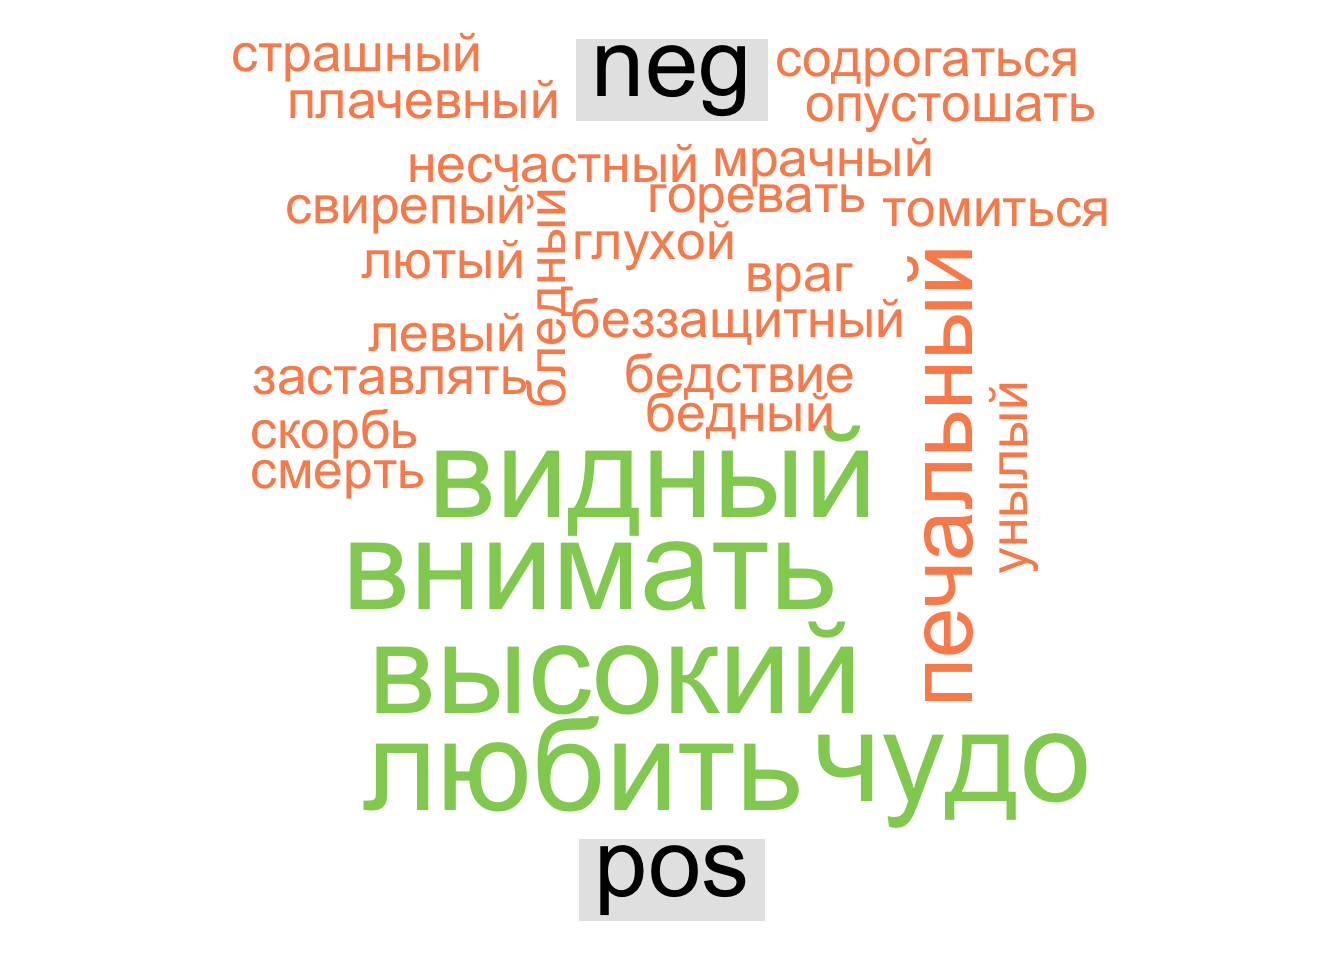
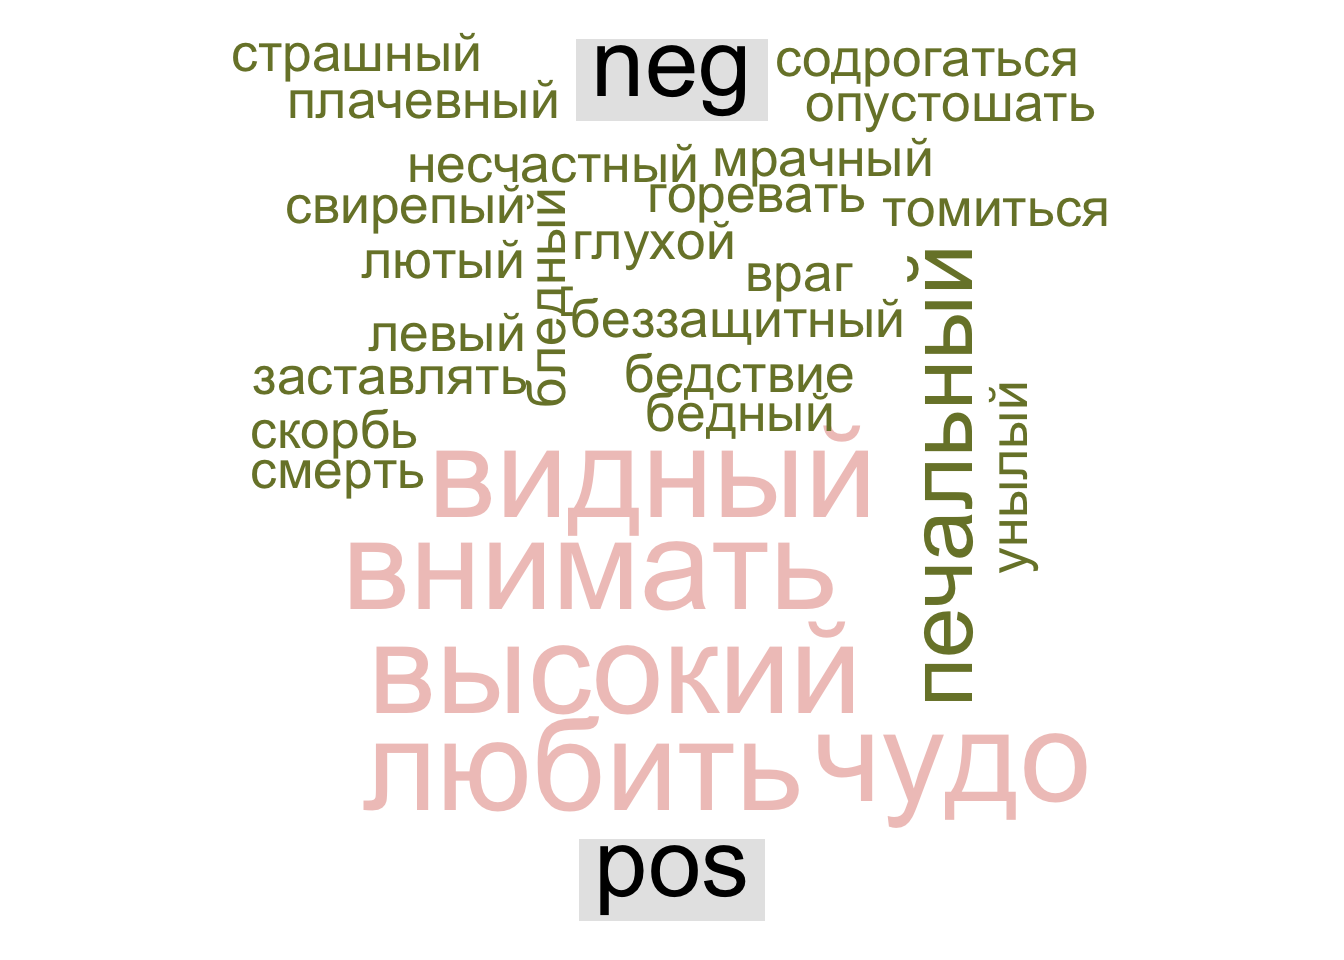
sentiment upd

Changed region(s): [[0.1875, 0.1562, 0.8438, 0.875], [0.5625, 0.0312, 0.8125, 0.125], [0.1562, 0.0312, 0.4375, 0.125]]

diff --git a/docs/sentiment.html b/docs/sentiment.html
@@ -392,7 +392,7 @@ div.csl-indent {
 </div>
 </div>
 </div>
-<p>NRC для русского языка – это переведенная версия списка положительных и отрицательных слов <a href="https://aclanthology.org/W10-0204/">Mohammad &amp; Turney (2010)</a>. Таблица содержит 5179 слов с не нейтральными оценками. Бинарная шкала: -1 / 1.</p>
+<p>NRC** для русского языка – это переведенная версия списка положительных и отрицательных слов <a href="https://aclanthology.org/W10-0204/">Mohammad &amp; Turney (2010)</a>. Таблица содержит 5179 слов с не нейтральными оценками. Бинарная шкала: -1 / 1.</p>
 <div class="cell">
 <div class="sourceCode cell-code" id="cb7"><pre class="sourceCode r code-with-copy"><code class="sourceCode r"><span id="cb7-1"><a href="#cb7-1" aria-hidden="true" tabindex="-1"></a><span class="fu">set.seed</span>(<span class="dv">1102</span>)</span>
 <span id="cb7-2"><a href="#cb7-2" aria-hidden="true" tabindex="-1"></a>nrc <span class="ot">&lt;-</span> hash_sentiment_nrc_emolex_ru</span>
@@ -494,22 +494,25 @@ div.csl-indent {
 </div>
 </div>
 </div>
-<p>Довольно неожиданно, что самый негативный отрывок находится не в конце повести, ближе к трагической развязке, а почти в начале (отрывок 5, ср. отрывки 3 и 4 рядом). Представим эмоционально окрашенную лексику отрывков 3-5 в виде сравнительного облака слов:</p>
+<p>Довольно неожиданно, что самый негативный отрывок находится не в конце повести, ближе к трагической развязке, а почти в начале (отрывок 5, ср. отрывки 3 и 4 рядом). Представим эмоционально окрашенную лексику отрывков 3-5 в виде сравнительного облака слов. Палитру берем <a href="https://emilhvitfeldt.github.io/r-color-palettes/discrete/rcartocolor/ArmyRose/">отсюда</a>.</p>
 <div class="cell">
 <div class="sourceCode cell-code" id="cb13"><pre class="sourceCode r code-with-copy"><code class="sourceCode r"><span id="cb13-1"><a href="#cb13-1" aria-hidden="true" tabindex="-1"></a><span class="fu">library</span>(reshape2)</span>
 <span id="cb13-2"><a href="#cb13-2" aria-hidden="true" tabindex="-1"></a><span class="fu">library</span>(wordcloud)</span>
 <span id="cb13-3"><a href="#cb13-3" aria-hidden="true" tabindex="-1"></a></span>
-<span id="cb13-4"><a href="#cb13-4" aria-hidden="true" tabindex="-1"></a><span class="co"># добавляем новый столбец для удобства визуализации</span></span>
-<span id="cb13-5"><a href="#cb13-5" aria-hidden="true" tabindex="-1"></a>liza_sent_class <span class="ot">&lt;-</span> liza_sent <span class="sc">|&gt;</span> </span>
-<span id="cb13-6"><a href="#cb13-6" aria-hidden="true" tabindex="-1"></a>  <span class="fu">mutate</span>(<span class="at">tone =</span> <span class="fu">case_when</span>( score <span class="sc">&gt;=</span> <span class="dv">0</span> <span class="sc">~</span> <span class="st">"pos"</span>,</span>
-<span id="cb13-7"><a href="#cb13-7" aria-hidden="true" tabindex="-1"></a>                           score <span class="sc">&lt;</span> <span class="dv">0</span> <span class="sc">~</span> <span class="st">"neg"</span>))</span>
-<span id="cb13-8"><a href="#cb13-8" aria-hidden="true" tabindex="-1"></a><span class="fu">set.seed</span>(<span class="dv">0211</span>)</span>
-<span id="cb13-9"><a href="#cb13-9" aria-hidden="true" tabindex="-1"></a>liza_sent_class <span class="sc">|&gt;</span> </span>
-<span id="cb13-10"><a href="#cb13-10" aria-hidden="true" tabindex="-1"></a>  <span class="fu">filter</span>(chunk  <span class="sc">%in%</span>  <span class="fu">c</span>(<span class="dv">3</span>, <span class="dv">4</span>, <span class="dv">5</span>)) <span class="sc">|&gt;</span> </span>
-<span id="cb13-11"><a href="#cb13-11" aria-hidden="true" tabindex="-1"></a>  <span class="fu">count</span>(token, tone, <span class="at">sort =</span> T) <span class="sc">|&gt;</span> </span>
-<span id="cb13-12"><a href="#cb13-12" aria-hidden="true" tabindex="-1"></a>  <span class="fu">acast</span>(token <span class="sc">~</span> tone, <span class="at">value.var =</span> <span class="st">"n"</span>, <span class="at">fill =</span> <span class="dv">0</span>) <span class="sc">|&gt;</span> </span>
-<span id="cb13-13"><a href="#cb13-13" aria-hidden="true" tabindex="-1"></a>  <span class="fu">comparison.cloud</span>(<span class="at">colors =</span> <span class="fu">c</span>(<span class="st">"#fc8d59"</span>, <span class="st">"#91cf60"</span>),</span>
-<span id="cb13-14"><a href="#cb13-14" aria-hidden="true" tabindex="-1"></a>                   <span class="at">max.words =</span> <span class="dv">99</span>)</span></code><button title="Скопировать текст" class="code-copy-button"><i class="bi"></i></button></pre></div>
+<span id="cb13-4"><a href="#cb13-4" aria-hidden="true" tabindex="-1"></a><span class="fu">library</span>(paletteer)</span>
+<span id="cb13-5"><a href="#cb13-5" aria-hidden="true" tabindex="-1"></a>pal <span class="ot">&lt;-</span> <span class="fu">paletteer_d</span>(<span class="st">"rcartocolor::ArmyRose"</span>)</span>
+<span id="cb13-6"><a href="#cb13-6" aria-hidden="true" tabindex="-1"></a></span>
+<span id="cb13-7"><a href="#cb13-7" aria-hidden="true" tabindex="-1"></a><span class="co"># добавляем новый столбец для удобства визуализации</span></span>
+<span id="cb13-8"><a href="#cb13-8" aria-hidden="true" tabindex="-1"></a>liza_sent_class <span class="ot">&lt;-</span> liza_sent <span class="sc">|&gt;</span> </span>
+<span id="cb13-9"><a href="#cb13-9" aria-hidden="true" tabindex="-1"></a>  <span class="fu">mutate</span>(<span class="at">tone =</span> <span class="fu">case_when</span>( score <span class="sc">&gt;=</span> <span class="dv">0</span> <span class="sc">~</span> <span class="st">"pos"</span>,</span>
+<span id="cb13-10"><a href="#cb13-10" aria-hidden="true" tabindex="-1"></a>                           score <span class="sc">&lt;</span> <span class="dv">0</span> <span class="sc">~</span> <span class="st">"neg"</span>))</span>
+<span id="cb13-11"><a href="#cb13-11" aria-hidden="true" tabindex="-1"></a><span class="fu">set.seed</span>(<span class="dv">0211</span>)</span>
+<span id="cb13-12"><a href="#cb13-12" aria-hidden="true" tabindex="-1"></a>liza_sent_class <span class="sc">|&gt;</span> </span>
+<span id="cb13-13"><a href="#cb13-13" aria-hidden="true" tabindex="-1"></a>  <span class="fu">filter</span>(chunk  <span class="sc">%in%</span>  <span class="fu">c</span>(<span class="dv">3</span>, <span class="dv">4</span>, <span class="dv">5</span>)) <span class="sc">|&gt;</span> </span>
+<span id="cb13-14"><a href="#cb13-14" aria-hidden="true" tabindex="-1"></a>  <span class="fu">count</span>(token, tone, <span class="at">sort =</span> T) <span class="sc">|&gt;</span> </span>
+<span id="cb13-15"><a href="#cb13-15" aria-hidden="true" tabindex="-1"></a>  <span class="fu">acast</span>(token <span class="sc">~</span> tone, <span class="at">value.var =</span> <span class="st">"n"</span>, <span class="at">fill =</span> <span class="dv">0</span>) <span class="sc">|&gt;</span> </span>
+<span id="cb13-16"><a href="#cb13-16" aria-hidden="true" tabindex="-1"></a>  <span class="fu">comparison.cloud</span>(<span class="at">colors =</span> <span class="fu">c</span>(pal[<span class="dv">1</span>], pal[<span class="dv">5</span>]),</span>
+<span id="cb13-17"><a href="#cb13-17" aria-hidden="true" tabindex="-1"></a>                   <span class="at">max.words =</span> <span class="dv">99</span>)</span></code><button title="Скопировать текст" class="code-copy-button"><i class="bi"></i></button></pre></div>
 <div class="cell-output-display">
 <div>
 <figure class="figure">
@@ -541,7 +544,7 @@ div.csl-indent {
 </div>
 </div>
 </div>
-<p>Выбираем <a href="https://emilhvitfeldt.github.io/r-color-palettes/discrete/rcartocolor/ArmyRose/">подходящую палитру</a> и беремся за краски.</p>
+<p>Палитра у нас уже сохранена.</p>
 <div class="cell">
 <div class="sourceCode cell-code" id="cb15"><pre class="sourceCode r code-with-copy"><code class="sourceCode r"><span id="cb15-1"><a href="#cb15-1" aria-hidden="true" tabindex="-1"></a><span class="fu">library</span>(showtext)</span></code><button title="Скопировать текст" class="code-copy-button"><i class="bi"></i></button></pre></div>
 <div class="cell-output cell-output-stderr">
